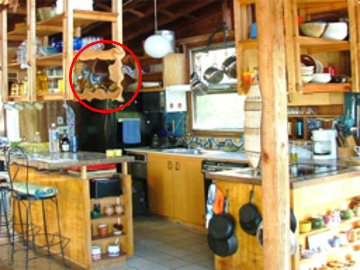
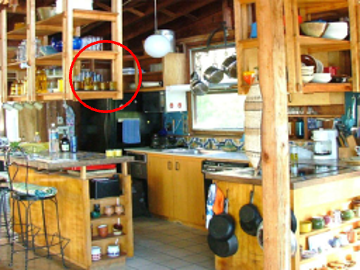
added stimuli

diff --git a/FChange/fcb01/diffeomorph_version/main/Input/consent/consent.md b/FChange/fcb01/diffeomorph_version/main/Input/consent/consent.md
@@ -3,7 +3,7 @@
 The purpose of this study is to gain a better understanding of how people perceive real-world visual scenes like this:
 
 
-![](https://alanzhihaolu.github.io/inverted-scenes/Images/consent_images/coffeemaker.jpg)  
+![](https://alanzhihaolu.github.io/changeBlindness/FChange/fcb01/diffeomorph_version/main/Input/consent/coffeemaker.png)  
 _Real-world visual scene example_
 
   
@@ -11,19 +11,19 @@ _Real-world visual scene example_
 
 If you agree to take part in this study, you will be presented with a series of flickering real-world scenes. As the image flickers, a distortion will appear.
 
-In this scene, the distortion will appear in the portion of the image circled in green.
+In this scene, the distortion will appear in the portion of the image circled in red.
 
-![](https://alanzhihaolu.github.io/changeBlindness/FChange/fcb02/main/Images/example_a_w_visual.jpg)  
+![](https://alanzhihaolu.github.io/changeBlindness/FChange/fcb01/diffeomorph_version/main/Input/consent/coffeemaker_absent_circled.png)   
 _Original image_  
 
-![](https://alanzhihaolu.github.io/changeBlindness/FChange/fcb02/main/Images/example_b_w_visual.jpg)  
+(https://alanzhihaolu.github.io/changeBlindness/FChange/fcb01/diffeomorph_version/main/Input/consent/coffeemaker_present_circled.png)   
 _Image with distortion_
 
   
 Your task will be to find the locations of distortion as quickly as possible, using a mouse and a keyboard. As soon as you find the change, press the spacebar once to stop the images from flickering. Then, use your mouse to click on the location of the change.
 
   
-![](https://alanzhihaolu.github.io/changeBlindness/FChange/fcb02/main/Images/trial_procedure.png)  
+![](https://alanzhihaolu.github.io/changeBlindness/FChange/fcb01/diffeomorph_version/main/Input/consent/trial_procedure.png)  
 _A typical trial_
 
   
